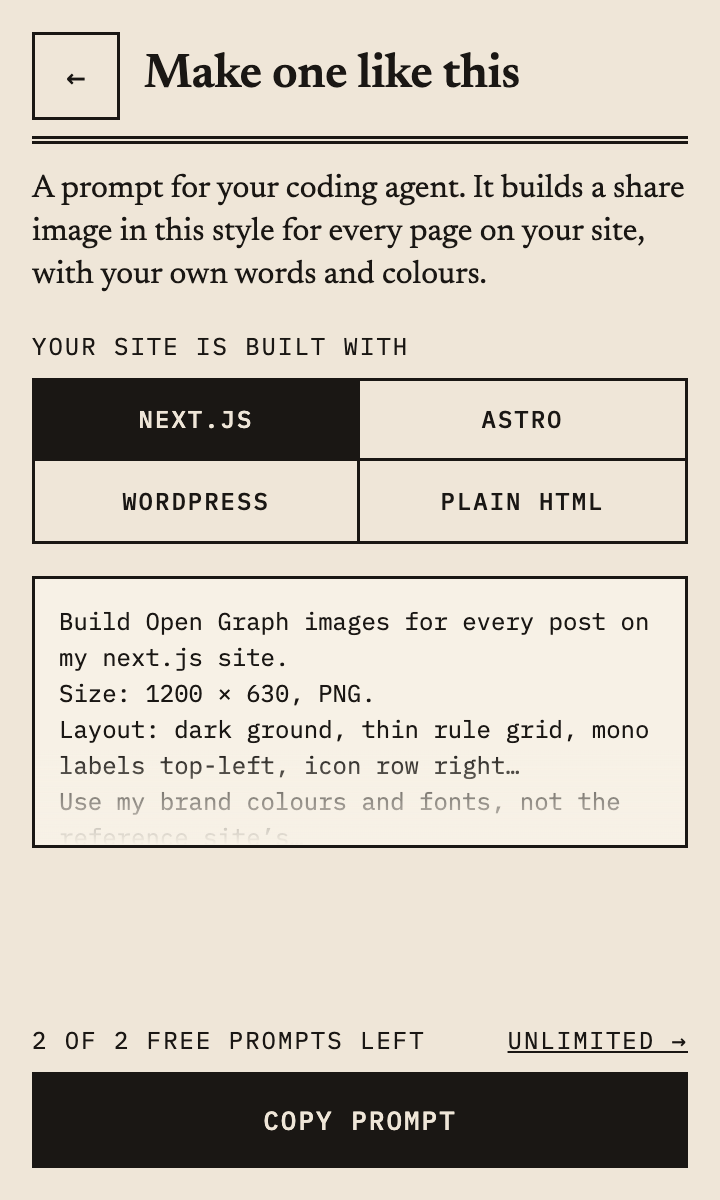
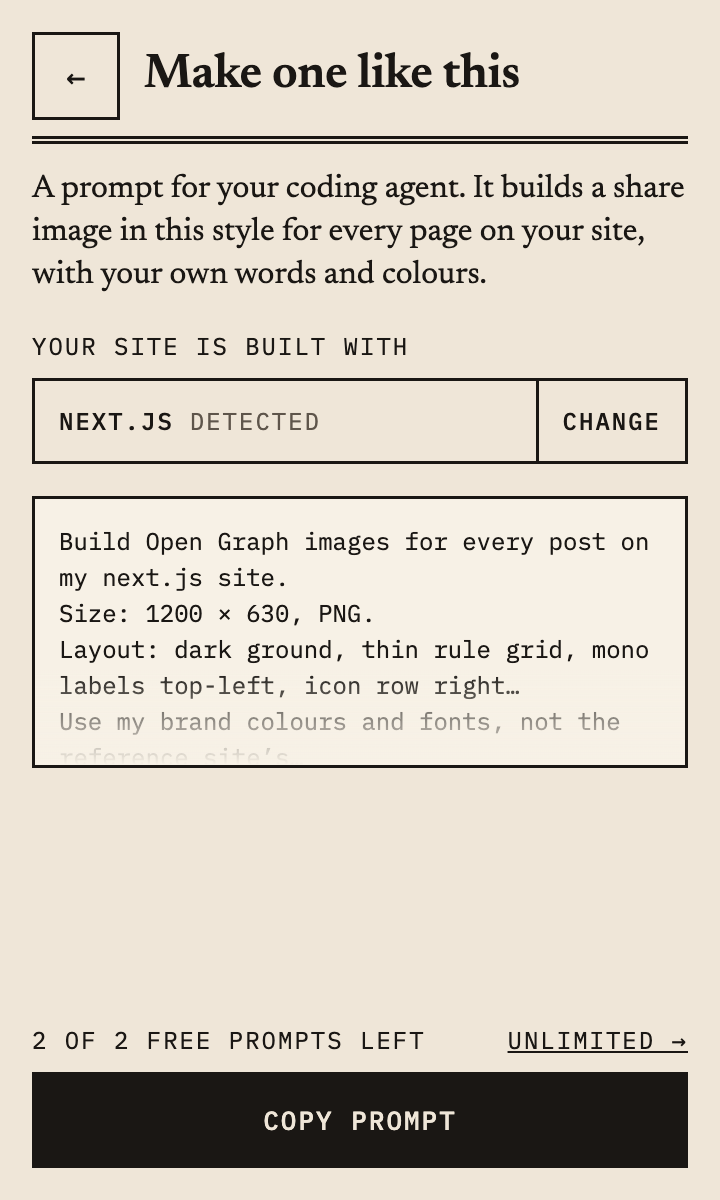
refactor: Refactor project structure and documentation
- Updated .prettierignore to exclude markdown files.
- Enhanced AGENTS.md with additional commands and clarified change criteria.
- Created CONTRIBUTING.md to outline contribution guidelines.
- Revised README.md for clarity and updated development commands.
- Added SECURITY.md for reporting security issues.
- Modified package.json in the extension to use cross-env for environment variable management.
- Improved smoke test script to handle executable paths more robustly.
- Updated frontend README.md to clarify site structure and commands.
- Removed unnecessary dependencies from frontend package.json.
- Adjusted playwright configuration for consistent viewport settings.
- Revised worker README.md for clarity on payment processing and key management.
- Added new design assets for development and landing pages.
- Updated pnpm-lock.yaml to reflect dependency changes and clean up unused packages.
- Clarified pricing package documentation for better understanding.
- Simplified theme package documentation to focus on shared styles.

diff --git a/apps/frontend/playwright.config.ts b/apps/frontend/playwright.config.ts
@@ -10,13 +10,7 @@ export default defineConfig({
     baseURL: 'http://localhost:4329',
     colorScheme: 'light',
     reducedMotion: 'reduce',
-    // A real 2x display at 1280 wide, like the design previews. Playwright's emulated
-    // deviceScaleFactor makes Chrome snap the 1.5px rules to 1px, so the viewport is left
-    // to the browser and the scale is forced at launch instead.
-    viewport: null,
-    launchOptions: {
-      args: ['--force-device-scale-factor=2', '--window-size=1280,800', '--hide-scrollbars'],
-    },
+    viewport: { width: 1280, height: 800 },
   },
   webServer: {
     command: 'pnpm build && astro preview --port 4329 --ignore-lock',

diff --git a/AGENTS.md b/AGENTS.md
@@ -6,17 +6,18 @@ This file is the single set of instructions for every coding agent. `CLAUDE.md` 
 
 ## Commands
 
-| Command | What it does |
-|---|---|
-| `pnpm dev` | Opens Edge with the extension loaded and live reload (`pnpm dev:chrome` for Chrome) |
-| `pnpm typecheck` | Runs typecheck in each implemented workspace |
-| `pnpm test` | Runs tests in each implemented workspace (extension: Vitest, happy-dom) |
-| `pnpm build` | Builds implemented workspaces; extension store build in `apps/extension/.output/chrome-mv3` |
-| `pnpm build:e2e && pnpm smoke [url]` | Loads the extension in a real browser, clicks through it, saves screenshots to `apps/extension/.output/smoke/` |
-| `pnpm --filter @ogpeel/frontend test` | Builds the site and checks every page against `design/site/*.png` pixel by pixel, plus axe and keyboard tests |
-| `pnpm icons` | Regenerates `apps/extension/public/icon/*.png` |
+| Command                               | What it does                                                                                                   |
+| ------------------------------------- | -------------------------------------------------------------------------------------------------------------- |
+| `pnpm dev`                            | Opens Edge with the extension loaded and live reload (`pnpm dev:chrome` for Chrome)                            |
+| `pnpm typecheck`                      | Runs typecheck in each implemented workspace                                                                   |
+| `pnpm test`                           | Runs tests in each implemented workspace (extension: Vitest, happy-dom)                                        |
+| `pnpm build`                          | Builds implemented workspaces; extension store build in `apps/extension/.output/chrome-mv3`                    |
+| `pnpm build:e2e && pnpm smoke [url]`  | Loads the extension in a real browser, clicks through it, saves screenshots to `apps/extension/.output/smoke/` |
+| `pnpm --filter @ogpeel/frontend test` | Builds the site and runs Playwright: axe, keyboard flows, links, no outside requests                           |
+| `pnpm icons`                          | Regenerates `apps/extension/public/icon/*.png`                                                                 |
+| `pnpm format` / `pnpm format:check`   | Formats every file with Prettier / checks it, as CI does                                                       |
 
-A change is done when typecheck, tests and build pass, and for anything visible in the popup, when the smoke run's screenshots look right. Look at the screenshots; don't assume.
+A change is done when the format check, typecheck, tests and build pass (CI runs all four on every pull request), and for anything visible in the popup, when the smoke run's screenshots look right. Look at the screenshots; don't assume.
 
 ## Layout
 
@@ -30,12 +31,13 @@ The extension paths below are relative to `apps/extension/`; `design/` remains a
 - `design/` – every design, grouped by where it's used. Each one is a pair with the same name: `name.dc.html` is the source of truth (exact colours, sizes, spacing in inline styles) and `name.png` is how it looks.
   - `design/extension/` – the popup screens, the brand board (`main`) and the icons.
   - `design/store/` – the store screenshots (`shot1`–`shot5`, 1280×800), the small tile (`promo`, 440×280) and the marquee (1400×560). The PNGs are the files to upload.
-  - `design/site/` – the website pages, the receipt email and the site's share image. The pages are built in `apps/frontend/` and tested against these PNGs.
+  - `design/site/` – the website pages, the receipt email and the site's share image. The pages are built in `apps/frontend/`; the designs are the reference, not test fixtures.
 - `tests/` – unit tests. `scripts/` – icons and the smoke test.
 
 ## Project rules
 
 **Privacy is the product.** These are promises made on the store listing and the privacy page.
+
 - Permissions stay `activeTab`, `scripting`, `downloads`, `storage`, `clipboardWrite`. Never add `<all_urls>` or any host permission to the store build. `OGPEEL_E2E=1` adds broad access for the smoke test only.
 - Nothing runs until the icon is clicked: no background script, no content script that loads on its own.
 - No network requests except loading the image the page names. A key is checked on the device, never sent. No analytics, no error reporting, no remote fonts or code.
@@ -43,19 +45,21 @@ The extension paths below are relative to `apps/extension/`; `design/` remains a
 - If a change would make the privacy page or store listing untrue, stop and ask.
 
 **Code**
+
 - Use kebab-case for project filenames, including component files and design assets. Keep conventional filenames such as `AGENTS.md`, `CLAUDE.md`, `README.md` and `LICENSE`.
 - `readPage()` is injected into pages: it must use nothing from outside its own body.
 - `lib/read-page.ts`, `lib/util.ts` and `lib/prompt.ts` import nothing from the browser API, so they can be unit tested. Keep it that way.
 - Logic goes in `app.tsx` or `lib/`; screens only render `s` and call `a`.
 - Import across folders with `@/` (the extension root, e.g. `@/lib/types`); use `./` only for files in the same folder.
 - Reading tags correctly is the core. Any change to `read-page.ts` comes with a test case.
-- A change to a page of the site starts in its design: edit `design/site/<name>.dc.html`, export the PNG again, then change the page until `pnpm --filter @ogpeel/frontend test` passes.
+- A change to a page of the site starts in its design: edit `design/site/<name>.dc.html` and export the PNG again, then change the page to match and check it by eye; `pnpm --filter @ogpeel/frontend test` must still pass.
 - A lost key is answered by hand (ogpeel.com/key gives an address; `pnpm --filter @ogpeel/worker make-key` prints the key). The thanks page shows no key; it is only emailed.
 - The worker (`apps/worker/`) does two things: `GET /buy` starts a Bachs checkout, `POST /webhook` emails a signed key when Bachs reports the payment. It stores nothing, and the extension never contacts it. Ask before adding a route or storing anything.
 - The key format lives in `packages/license/`: the worker signs, the extension verifies. A change there, or a new signing pair, stops every key already sold from working.
 - Secrets (Bachs keys, the Resend key, the private signing key) live in `apps/worker/.dev.vars` and Wrangler secrets, never in the repository.
 
 **Design**
+
 - Match the designs in `design/`. Paper look: square corners, 1.5px ink rules, a double rule under headers, depth as a 3px offset ink block, never a soft shadow or a gradient.
 - Colours only through the shadcn-named CSS variables in `packages/theme/theme.css` (`--background`, `--card`, `--foreground`, `--muted`, `--muted-foreground`, `--primary`, `--primary-foreground`, `--border`, `--ring`), so the night look keeps working. Vermilion (`--primary`) is for actions that save a file or pay.
 - Sizes come from theme tokens: the 4px `--spacing` scale, `text-xs/sm/base/2xl/display`, `leading-heading/body`, `tracking-label/brand/display`, `rule` / `rule-b` / `rule-t`… for the 1.5px rules, `aspect-share`. Borders are solid and zero-width unless a utility sets a width, so never write `border-0` or `border-solid`. Reach for an arbitrary `[value]` only for a true one-off.
@@ -75,7 +79,9 @@ The extension paths below are relative to `apps/extension/`; `design/` remains a
 These bias toward caution over speed. For trivial tasks, use judgment.
 
 ### 1. Think before coding
+
 Don't assume. Don't hide confusion. Surface tradeoffs.
+
 - State your assumptions explicitly. If uncertain, ask.
 - If multiple interpretations exist, present them; don't pick silently.
 - If a simpler approach exists, say so. Push back when warranted.
@@ -83,7 +89,9 @@ Don't assume. Don't hide confusion. Surface tradeoffs.
 - When you ask a question, use the interactive ask tool if one is available. Offer concrete options and put your recommended option first. Fall back to plain text only when there is no such tool.
 
 ### 2. Simplicity first
+
 Minimum code that solves the problem. Nothing speculative.
+
 - No features beyond what was asked.
 - No abstractions for single-use code.
 - No "flexibility" or "configurability" that wasn't requested.
@@ -92,7 +100,9 @@ Minimum code that solves the problem. Nothing speculative.
 - Ask: "Would a senior engineer say this is overcomplicated?" If yes, simplify.
 
 ### 3. Surgical changes
+
 Touch only what you must. Clean up only your own mess.
+
 - Don't "improve" adjacent code, comments or formatting.
 - Don't refactor things that aren't broken.
 - Match existing style, even if you'd do it differently.
@@ -101,13 +111,16 @@ Touch only what you must. Clean up only your own mess.
 - The test: every changed line traces directly to the request.
 
 ### 4. Goal-driven execution
+
 Define success criteria. Loop until verified.
+
 - "Add validation" → write tests for invalid inputs, then make them pass.
 - "Fix the bug" → write a test that reproduces it, then make it pass.
 - "Refactor X" → tests pass before and after.
 - For multi-step tasks, state a brief plan, each step with its check: `1. [step] → verify: [check]`.
 
 ### 5. Report honestly
+
 - Say what you verified and how, and what you didn't. "Builds" is not "works".
 - If a test fails or a step was skipped, say so with the output.
 - Never invent a number, a price, a file size or an API's behaviour. Check it, or mark it as unverified.

diff --git a/README.md b/README.md
@@ -1,48 +1,39 @@
 # Ogpeel
 
-A browser extension that saves the image a page shows when it is shared (its `og:image` or `twitter:image`), at full size, named after the page.
+A browser extension that saves the image a page shows when someone shares its link (`og:image` or `twitter:image`). Full size, named after the page.
 
-- Save the share image in one click, or copy the image or its link.
-- See every share image a page sets, not just the first.
-- Preview how the link looks on X, LinkedIn, Slack and WhatsApp, with plain checks on size, title, description and alt text.
-- Get a prompt for your coding agent to build share images for your own site in the same style, for 19 frameworks, including Next.js, Nuxt, SvelteKit, Astro, Hugo, WordPress, Laravel, Django, Rails and Shopify.
+- Save the image in one click, or copy the image or its link.
+- See every share image the page sets, not just the first.
+- Preview the link on X, LinkedIn, Slack and WhatsApp, with checks on size, title, description and alt text.
+- Get a prompt your coding agent can use to build share images for your own site. Covers 19 frameworks, from Next.js and Astro to WordPress and Rails.
 
 ## Privacy
 
-Ogpeel reads a page only when you click its icon, through the `activeTab` permission. Nothing is sent anywhere. It asks for access to one image host only when Copy image needs it to read that image.
+Ogpeel reads a page only when you click its icon. It sends nothing anywhere. It asks for access to an image's host only when you use Copy image, one host at a time.
 
-## Develop
+## Run it
 
 ```sh
 pnpm install
-pnpm dev          # opens Edge with the extension loaded
-pnpm dev:chrome   # same, in Chrome
-pnpm build        # load apps/extension/.output/chrome-mv3 as an unpacked extension
-pnpm test         # unit tests (vitest)
-pnpm icons        # regenerate apps/extension/public/icon/*.png
-pnpm typecheck    # check all implemented workspaces
-pnpm build:e2e
-pnpm smoke        # browser check; screenshots in apps/extension/.output/smoke/
+pnpm dev          # Edge with the extension loaded (pnpm dev:chrome for Chrome)
+pnpm test
+pnpm build        # then load apps/extension/.output/chrome-mv3 as an unpacked extension
 ```
 
-## Layout
+More commands are in [CONTRIBUTING.md](CONTRIBUTING.md).
 
-This repository uses pnpm workspaces. Root commands run the extension or, for build, test and typecheck, every workspace that defines the corresponding script. Run a specific app with `pnpm --filter @ogpeel/extension <command>` (or `@ogpeel/worker`, `@ogpeel/frontend`).
+## What's where
 
-- `apps/extension/` the working browser extension: `entrypoints/popup/` for UI, `lib/` for logic, `tests/` for unit tests, `scripts/` for icons and browser smoke checks
-- `apps/worker/` a Cloudflare Worker that starts the Bachs checkout and emails a signed key after payment; see its README
-- `apps/frontend/` ogpeel.com, a static Astro site, tested pixel by pixel against the designs; see its README
-- `packages/license/` the key format shared by the worker (signs) and the extension (verifies)
-- `packages/pricing/` the price, the coffee and the refund window, quoted by the popup, the site and the key email
-- `packages/theme/` the paper look shared by the popup and the site: colours, fonts and theme tokens. Components are not shared; each app keeps its own
-- `design/` shared designs, grouped into `extension/`, `store/` and `site/`; each is a source file (`.dc.html`) with a PNG of the same name
+- `apps/extension/` the extension
+- `apps/frontend/` the website, ogpeel.com
+- `apps/worker/` takes payment and emails the key
+- `packages/` code more than one app needs: the key format, the prices and the look
+- `design/` the designs for the popup, the store listing and the site
 
-## Payment
+## Paying
 
-Ogpeel is free. Developer prompts are free twice; after that a one-time licence key unlocks them. Payment goes through Bachs; a small worker (`apps/worker/`) then emails a signed key. The extension checks the key on the device and sends nothing. In a development build, the key `OGPEEL-TEST-TEST-TEST` unlocks.
+Ogpeel is free. Developer prompts are free twice; after that, a one-time key unlocks them. The key is checked on your device and never sent. In a development build, `OGPEEL-TEST-TEST-TEST` works as a key.
 
 ## Licence
 
-MIT, see [LICENSE](LICENSE). The name "Ogpeel" and its logo are not covered by the licence; if you publish a fork, use another name and logo.
-
-Coding agents: see `AGENTS.md`.
+MIT, see [LICENSE](LICENSE). The name "Ogpeel" and its logo are not covered. If you publish a fork, give it another name and logo.

diff --git a/apps/worker/README.md b/apps/worker/README.md
@@ -1,13 +1,13 @@
 # Ogpeel worker
 
-A Cloudflare Worker with two routes. It stores nothing, and the extension never contacts it.
+Takes payment and emails the key. A Cloudflare Worker with two routes; it stores nothing, and the extension never contacts it.
 
 - `GET /buy` creates a [Bachs](https://docs.bachs.io) checkout for the unlimited-prompts product and sends the buyer to it. The site's pay button links here.
-- `POST /webhook` receives Bachs events. On `collection.succeeded` for that product it signs a key (`@ogpeel/license`) and emails it to the buyer through [Resend](https://resend.com/docs). Deliveries with a bad or old signature get 400. If the email fails the worker answers 500 and Bachs delivers the event again.
+- `POST /webhook` receives Bachs events. On `collection.succeeded` for that product it signs a key (`@ogpeel/license`) and emails it to the buyer through [Resend](https://resend.com/docs). A bad or old signature gets a 400. If the email fails, the worker answers 500 and Bachs sends the event again.
 
-The same payment always gives the same key, so a repeated delivery sends nothing new.
+One payment always makes the same key, so a repeated event sends the same key again.
 
-There is no route for a lost key, because nothing is stored to look one up in. ogpeel.com/key asks the buyer to write in; find their payment in Bachs, run `pnpm make-key <payment id>` and reply with the key it prints.
+Lost keys are answered by hand, since nothing is stored. ogpeel.com/key asks the buyer to email; find their payment in Bachs, run `pnpm make-key <payment id>` and send the key it prints.
 
 ## Settings
 
@@ -15,25 +15,25 @@ In `wrangler.jsonc`: `BACHS_API_URL` (sandbox or live), `BACHS_PRODUCT_ID`, `SUC
 
 Secrets, in `.dev.vars` for `pnpm dev` and `wrangler secret put <NAME>` for the deployed worker:
 
-| Name | Where it comes from |
-|---|---|
-| `BACHS_SECRET_KEY` | Bachs developer portal, API keys (`sk_sandbox_…` or `sk_live_…`) |
-| `BACHS_WEBHOOK_SECRET` | The signing secret of the webhook endpoint (`whsec_…`) |
-| `RESEND_API_KEY` | Resend |
-| `LICENSE_PRIVATE_KEY` | `pnpm keygen`, which saves it to `.dev.vars` |
+| Name                   | Where it comes from                                              |
+| ---------------------- | ---------------------------------------------------------------- |
+| `BACHS_SECRET_KEY`     | Bachs developer portal, API keys (`sk_sandbox_…` or `sk_live_…`) |
+| `BACHS_WEBHOOK_SECRET` | The signing secret of the webhook endpoint (`whsec_…`)           |
+| `RESEND_API_KEY`       | Resend                                                           |
+| `LICENSE_PRIVATE_KEY`  | `pnpm keygen`, which saves it to `.dev.vars`                     |
 
-`pnpm keygen` also prints the public key, which goes in `apps/extension/lib/config.ts`. Run it once: a new pair stops every key already sold from working. Keep a copy of the private key somewhere safe outside the repository.
+`pnpm keygen` also prints the public key, which goes in `apps/extension/lib/config.ts`. Run it once. A new pair stops every key already sold from working, so keep a copy of the private key somewhere safe, outside the repository.
 
 ## Commands
 
 Run from this folder, or from the root with `pnpm --filter @ogpeel/worker <command>`.
 
-| Command | What it does |
-|---|---|
-| `pnpm dev` | Runs the worker locally |
-| `pnpm test` | Unit tests for both routes |
-| `pnpm build` | Bundles without deploying |
-| `pnpm deploy` | Deploys to Cloudflare |
+| Command                      | What it does                                    |
+| ---------------------------- | ----------------------------------------------- |
+| `pnpm dev`                   | Runs the worker locally                         |
+| `pnpm test`                  | Unit tests for both routes                      |
+| `pnpm build`                 | Bundles without deploying                       |
+| `pnpm deploy`                | Deploys to Cloudflare                           |
 | `pnpm make-key <payment id>` | Prints the key for one payment, to send by hand |
 
 ## Deploying

diff --git a/apps/frontend/README.md b/apps/frontend/README.md
@@ -1,16 +1,21 @@
-# Ogpeel frontend
+# Ogpeel website
 
-ogpeel.com as a static Astro site. Pages: `/` (landing), `/privacy`, `/key` (where a key is, and who to write to if it is lost), `/thanks` (after paying; the key itself is only emailed). Designs: `../../design/site/`.
+ogpeel.com, a static Astro site. Its designs are in `design/site/`.
 
-| Command | What it does |
-|---|---|
-| `pnpm dev` | Local dev server |
-| `pnpm build` | Static site in `dist/` |
-| `pnpm typecheck` | `astro check` (needs TypeScript 6, pinned here) |
-| `pnpm test` | Builds, serves, and runs Playwright: pixel comparison with the design PNGs, axe, keyboard flows |
+| Page       | What it's for                                       |
+| ---------- | --------------------------------------------------- |
+| `/`        | The landing page                                    |
+| `/privacy` | The privacy policy                                  |
+| `/key`     | Where to find your key, and who to write to if lost |
+| `/thanks`  | After paying. Shows no key; the key is only emailed |
 
-The paper look (colours, fonts, theme tokens) comes from `@ogpeel/theme`, shared with the extension. The site's own buttons are in `src/components/button-variants.ts`, its own sizes in `src/styles/site.css`, and the links that change at launch in `src/config.ts`. Prices come from `@ogpeel/pricing`.
+| Command          | What it does                                                     |
+| ---------------- | ---------------------------------------------------------------- |
+| `pnpm dev`       | Local server                                                     |
+| `pnpm build`     | Builds the site into `dist/`                                     |
+| `pnpm typecheck` | Runs `astro check`                                               |
+| `pnpm test`      | Builds the site and checks accessibility, keyboard use and links |
 
-`cookie` is a direct dependency although no file here imports it: without it, `astro build` resolves an older copy from the workspace root and fails with `Named export 'parseCookie' not found`.
+Colours and fonts come from `@ogpeel/theme`, prices from `@ogpeel/pricing`. Links that change at launch are in `src/config.ts`.
 
-`tests/design.spec.ts` renders each page on a real 2x display at 1280 wide and requires the exact design height and at most 0.05% differing pixels. Diffs for a failing page land in `test-results/`. It uses Chrome's forced device scale, not Playwright's emulated one, because emulation makes Chrome draw the 1.5px rules at 1px.
+`cookie` is listed as a dependency though nothing imports it. Without it, `astro build` picks up an older copy and fails with `Named export 'parseCookie' not found`.

diff --git a/packages/theme/README.md b/packages/theme/README.md
@@ -1,11 +1,6 @@
 # @ogpeel/theme
 
-The paper look shared by the extension popup and ogpeel.com. One file, `theme.css`:
-
-- the bundled fonts (Newsreader, IBM Plex Mono);
-- the shadcn-named colour variables, for day and for `data-look="night"`;
-- the Tailwind theme tokens both apps use: spacing, type sizes, `rule` and `rule-b` for the 1.5px ink rule, `shadow-offset` for depth;
-- the base rules: no border unless a utility sets one, and the focus outline.
+The look shared by the popup and ogpeel.com, in one file, `theme.css`: the bundled fonts, the day and night colours, and the Tailwind tokens both apps use.
 
 Import it after Tailwind's theme layer:
 
@@ -16,4 +11,4 @@ Import it after Tailwind's theme layer:
 @import '@ogpeel/theme/theme.css';
 ```
 
-What belongs here is what must be identical in both places. Components do not: the popup is Preact and the site is Astro, so each app keeps its own, built from these tokens. Sizes that only make sense in one place (the 360 × 600 popup, the site's display type) stay in that app's stylesheet.
+Only what both apps need goes here. Components stay in each app, because the popup uses Preact and the site uses Astro.

diff --git a/CONTRIBUTING.md b/CONTRIBUTING.md
@@ -1,0 +1,28 @@
+# Contributing
+
+Issues and pull requests are welcome. You need Node 24 and pnpm.
+
+```sh
+pnpm install
+pnpm dev          # Edge with the extension loaded (pnpm dev:chrome for Chrome)
+```
+
+## Before you open a pull request
+
+```sh
+pnpm format:check
+pnpm typecheck
+pnpm test
+pnpm build
+```
+
+If you changed something in the popup, also run `pnpm build:e2e && pnpm smoke` and look at the screenshots in `apps/extension/.output/smoke/`.
+
+## Rules
+
+- Keep it private. No new permissions, nothing that runs before the icon is clicked, and no network requests except loading the page's image. No analytics.
+- A change to `lib/read-page.ts` needs a test.
+- A change to the website starts in its design in `design/site/`.
+- The prices and the refund window are not open for change.
+
+All the rules are in [AGENTS.md](AGENTS.md). Report security problems as [SECURITY.md](SECURITY.md) says, not in a public issue.

diff --git a/SECURITY.md b/SECURITY.md
@@ -1,0 +1,17 @@
+# Security
+
+Report security problems privately, not in a public issue:
+
+- On GitHub: Security → Report a vulnerability
+- By email: hello@ogpeel.com
+
+Say what you found, how to reproduce it and what it affects.
+
+## What counts
+
+- The extension sends data anywhere, runs before its icon is clicked, or uses a permission beyond `activeTab`, `scripting`, `downloads`, `storage` and `clipboardWrite`.
+- Someone can make a key the extension accepts without the private signing key, or the test key works in a store build.
+- Someone can get a key emailed without paying (`apps/worker/`).
+- A problem on ogpeel.com.
+
+Building the extension from source without the paid part is not a security problem. The MIT licence allows it.

diff --git a/packages/pricing/README.md b/packages/pricing/README.md
@@ -1,5 +1,5 @@
 # @ogpeel/pricing
 
-Three figures, in one place: the price of unlimited prompts, the coffee, and the refund window. The popup, ogpeel.com and the worker's key email all import them, so a change is one edit.
+The price, the coffee and the refund window. The popup, the site and the key email all read them from here.
 
-The designs in `design/` quote the same figures as plain text; change them there too.
+The designs in `design/` show the same figures as plain text. If you change one, change it there too.
